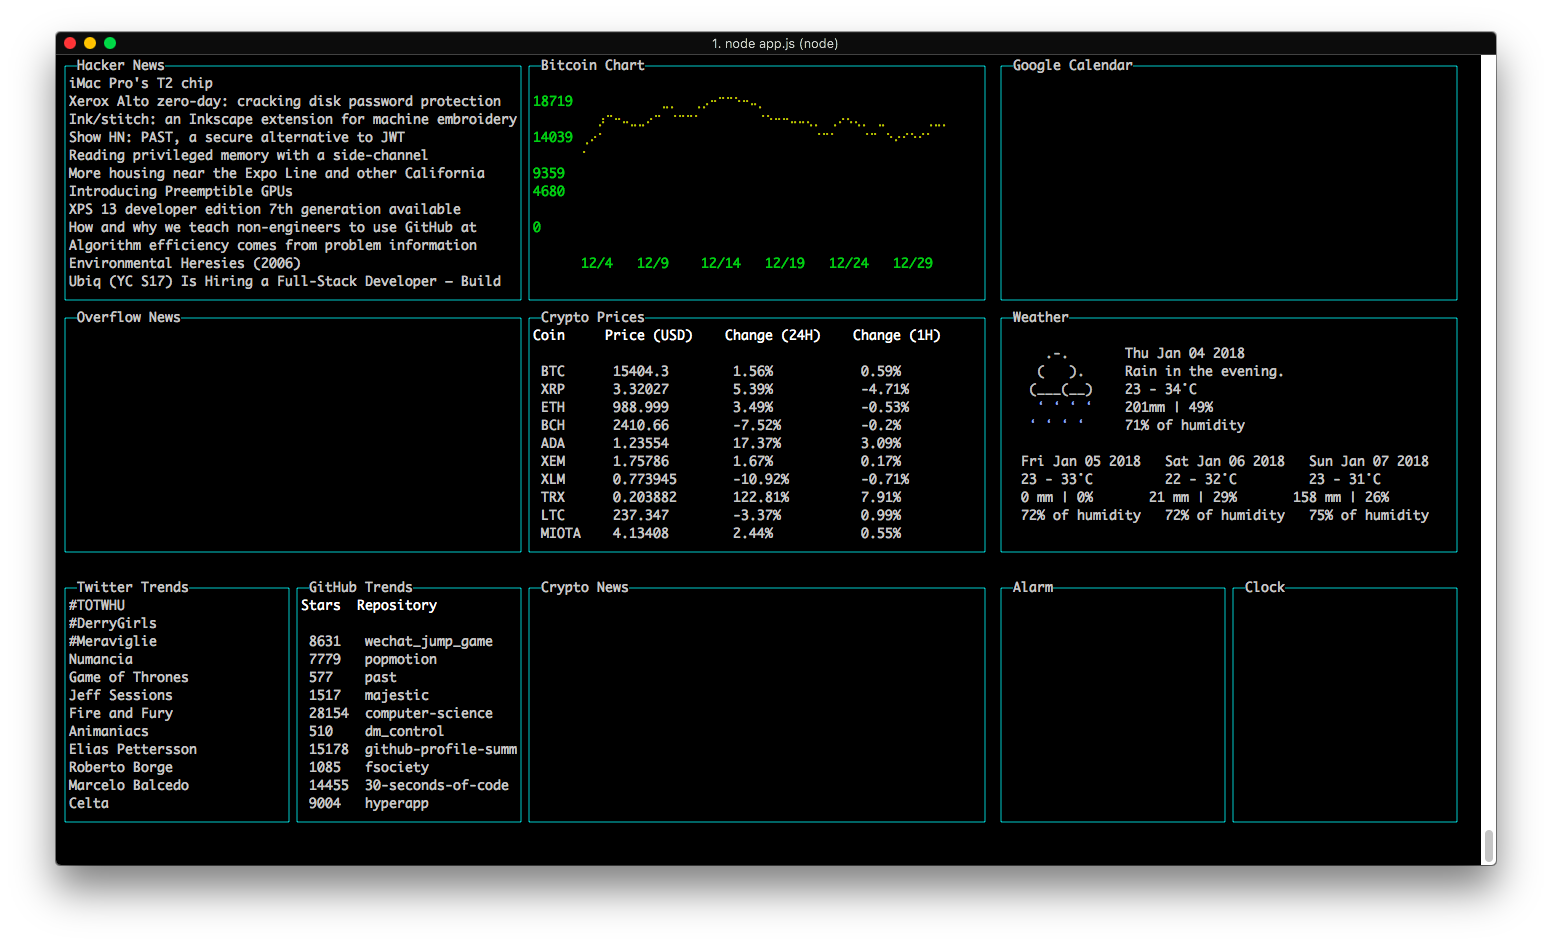
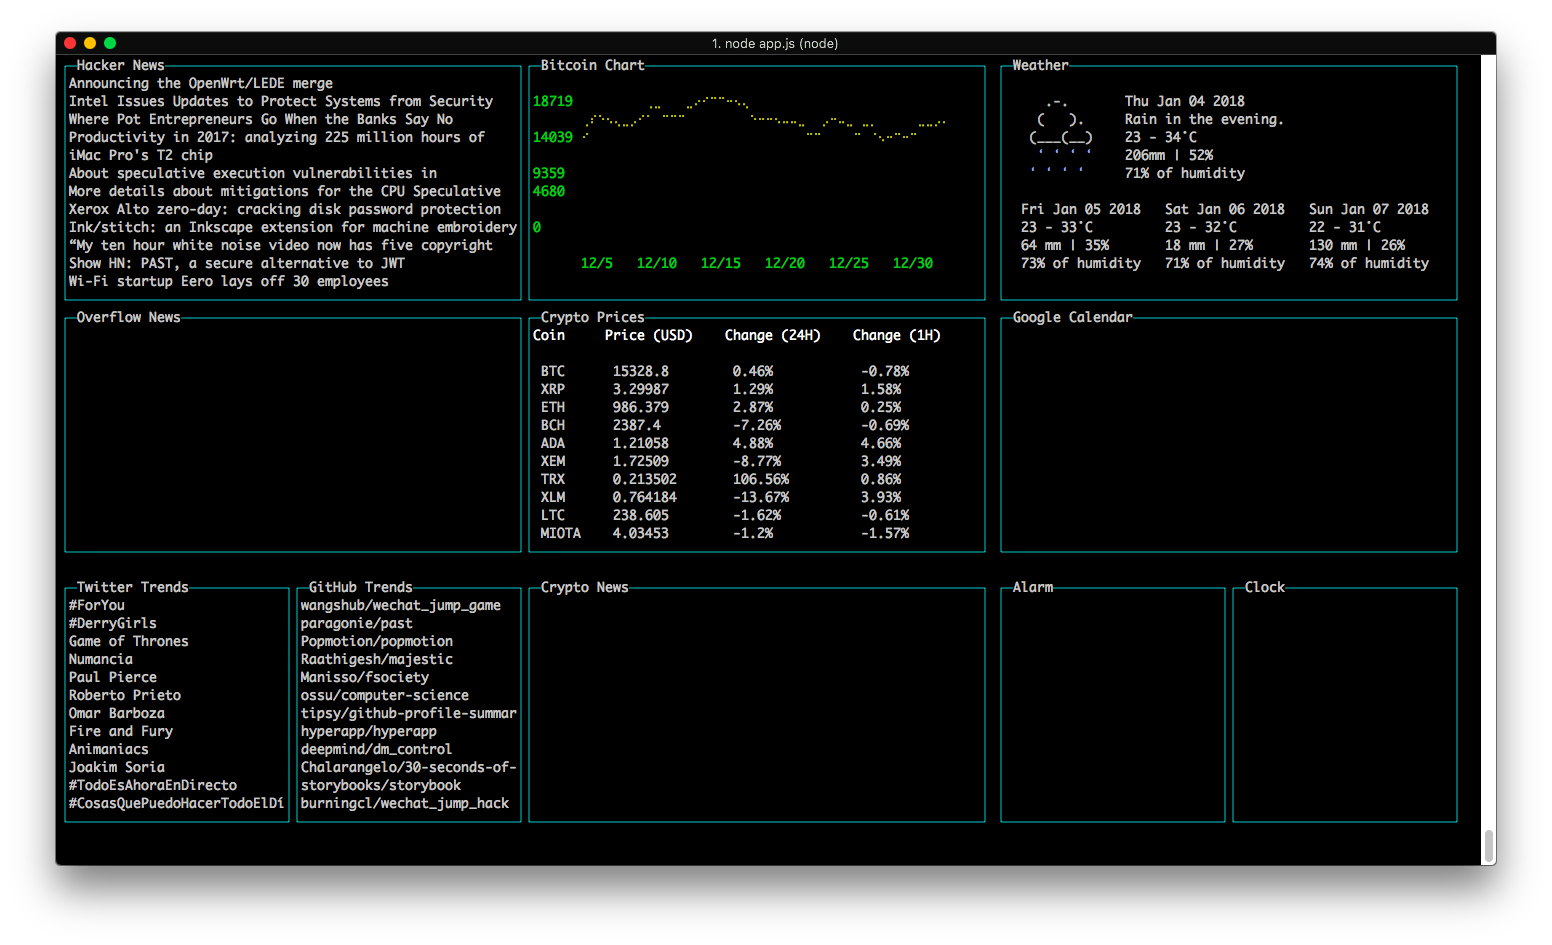
Code refactoring for GitHub Trends Module

diff --git a/app.js b/app.js
@@ -10,11 +10,11 @@ const screen = blessed.screen();
 const grid = new contrib.grid({rows: 12, cols: 12, screen: screen});
 
 // Hacker News
-const hackerNews = grid.set(0, 0, 4, 4, contrib.log, m.hackerNews.config);
+const hackernews = grid.set(0, 0, 4, 4, contrib.log, m.hackernews.config);
 
-m.hackerNews.get(function(lines) {
+m.hackernews.get(function(lines) {
   lines.forEach(function(line) {
-    hackerNews.log(line);
+    hackernews.log(line);
   });
 });
 
@@ -31,14 +31,12 @@ m.twitter.get(function(lines) {
 });
 
 // GitHub Trends
-const githubTrends = grid.set(8, 2, 4, 2, contrib.table, config.githubTrends);
+const github = grid.set(8, 2, 4, 2, contrib.log, m.github.config);
 
-m.githubTrends.get(function(data) {
-  githubTrends.setData({
-    headers: ['Stars', 'Repository'],
-    data: data
+m.github.get(function(lines) {
+  lines.forEach(function(line) {
+    github.log(line);
   });
-  screen.render();
 });
 
 // Bitcoin Chart

diff --git a/modules/index.js b/modules/index.js
@@ -2,15 +2,15 @@ const cryptoPrices = require('./cryptoPrices.js');
 const bitcoinChart = require('./bitcoinChart.js');
 const weather = require('./weather');
 const twitter = require('./twitter');
-const hackerNews = require('./hackerNews');
-const githubTrends = require('./githubTrends.js');
+const hackernews = require('./hackernews');
+const github = require('./github');
 
 module.exports = {
   cryptoPrices,
   bitcoinChart,
   weather,
   twitter,
-  hackerNews,
-  githubTrends
+  hackernews,
+  github
 };
 

diff --git a/modules/github/index.js b/modules/github/index.js
@@ -1,0 +1,19 @@
+const axios = require('axios');
+const trending = require('trending-github');
+const config = require('./config');
+
+function get(callback) {
+  trending()
+    .then(function(response) {
+      let repos = [];
+
+      for (var i = 0; i < 12; i++) {
+        repos.push(`${response[i].author}/${response[i].name}`);
+      }
+
+      callback(repos);
+    })
+}
+
+module.exports = { get, config };
+

diff --git a/config/index.js b/config/index.js
@@ -1,10 +1,8 @@
 const cryptoPrices = require('./cryptoPrices.js');
 const bitcoinChart = require('./bitcoinChart.js');
-const githubTrends = require('./githubTrends.js');
 
 module.exports = {
   cryptoPrices,
-  bitcoinChart,
-  githubTrends
+  bitcoinChart
 };
 

diff --git a/modules/github/config.js b/modules/github/config.js
@@ -1,0 +1,4 @@
+module.exports = {
+  label: 'GitHub Trends'
+};
+
